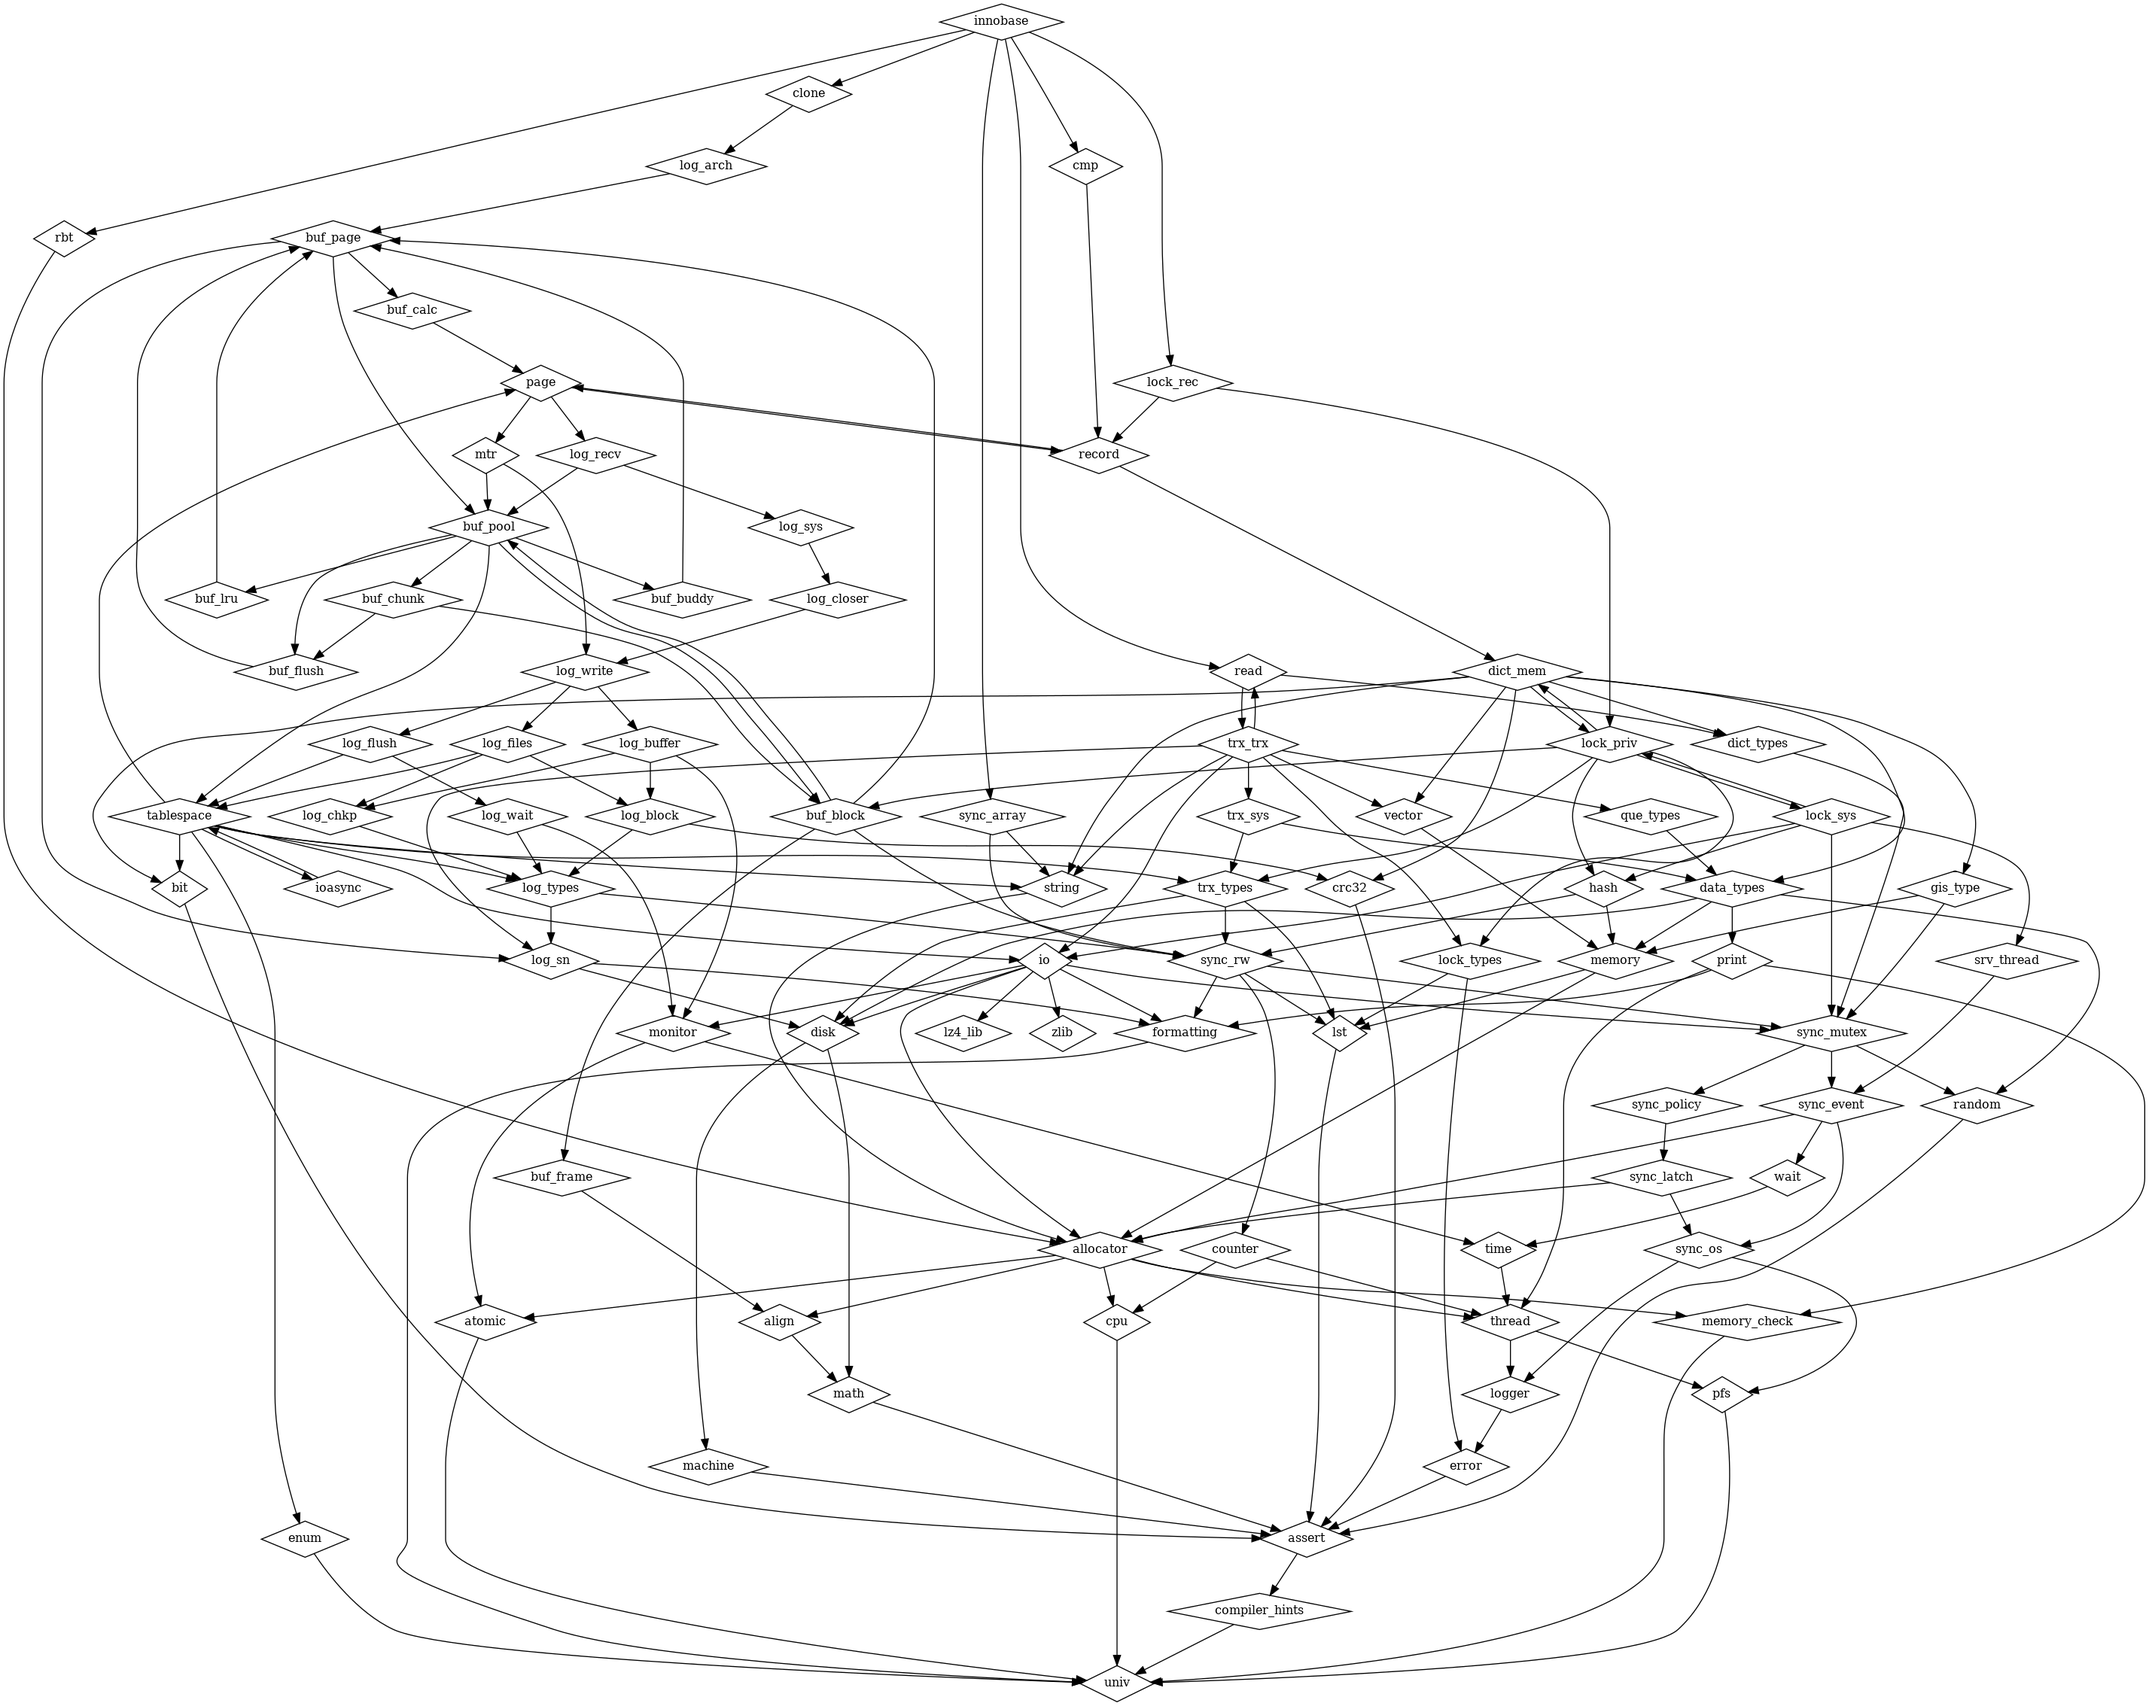
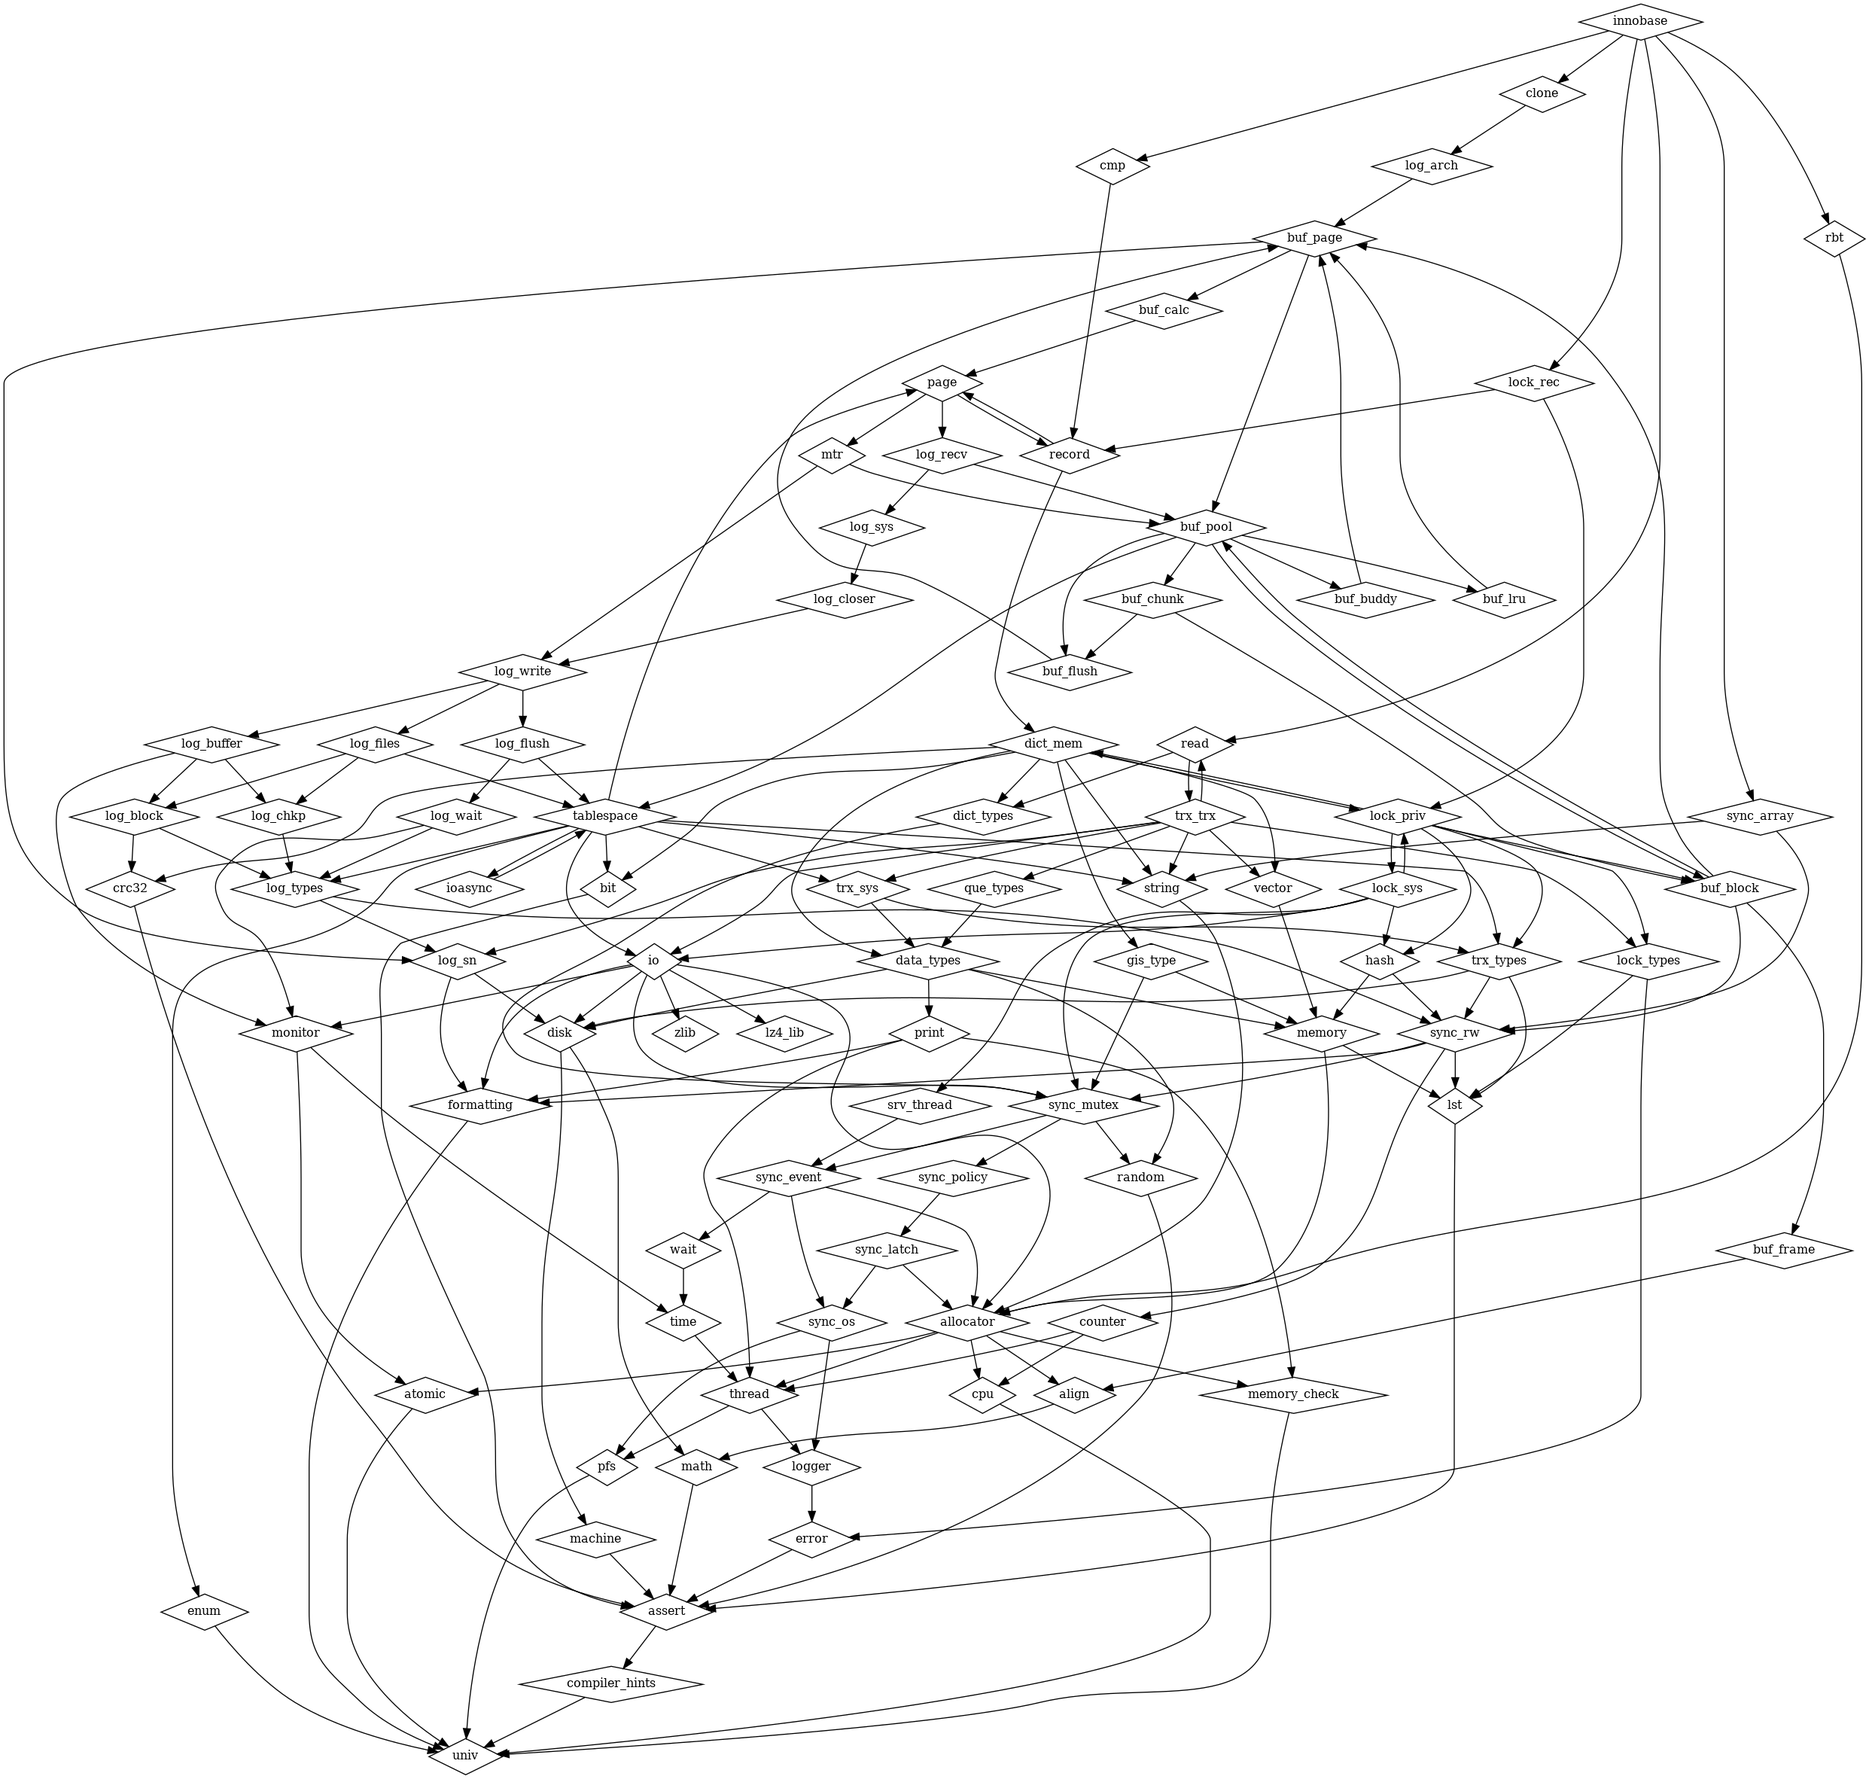
Extend trx_sys library

diff --git a/storage/innobase/libs/trx_sys/include/innodb/trx_sys/flags.h b/storage/innobase/libs/trx_sys/include/innodb/trx_sys/flags.h
@@ -130,3 +130,30 @@ FIL_PAGE_ARCH_LOG_NO_OR_SPACE_ID. */
 two) is assigned, the field TRX_SYS_TRX_ID_STORE on the transaction system
 page is updated */
 #define TRX_SYS_TRX_ID_WRITE_MARGIN ((trx_id_t)256)
+
+
+
+
+
+/* Rollback segment specification slot offsets */
+/*-------------------------------------------------------------*/
+#define TRX_SYS_RSEG_SPACE          \
+  0 /* space where the segment      \
+    header is placed; starting with \
+    MySQL/InnoDB 5.1.7, this is     \
+    UNIV_UNDEFINED if the slot is unused */
+#define TRX_SYS_RSEG_PAGE_NO           \
+  4 /*  page number where the segment  \
+    header is placed; this is FIL_NULL \
+    if the slot is unused */
+/*-------------------------------------------------------------*/
+/* Size of a rollback segment specification slot */
+#define TRX_SYS_RSEG_SLOT_SIZE 8
+
+
+
+/** Space id of the transaction system page (the system tablespace) */
+static const space_id_t TRX_SYS_SPACE = 0;
+
+/** Space id of system tablespace */
+const space_id_t SYSTEM_TABLE_SPACE = TRX_SYS_SPACE;

diff --git a/storage/innobase/libs/dict_mem/include/innodb/dict_mem/flags.h b/storage/innobase/libs/dict_mem/include/innodb/dict_mem/flags.h
@@ -326,11 +326,7 @@ a foreign key constraint is enforced, therefore RESTRICT just means no flag */
 /** SDI version. Written on Page 1 & 2 at FIL_PAGE_FILE_FLUSH_LSN offset. */
 const uint32_t SDI_VERSION = 1;
 
-/** Space id of the transaction system page (the system tablespace) */
-static const space_id_t TRX_SYS_SPACE = 0;
 
-/** Space id of system tablespace */
-const space_id_t SYSTEM_TABLE_SPACE = TRX_SYS_SPACE;
 
 /** Identifies generated InnoDB foreign key names */
 static char dict_ibfk[] = "_ibfk_";

diff --git a/storage/innobase/libs/tablespace/src/fsp_is_ibd_tablespace.cpp b/storage/innobase/libs/tablespace/src/fsp_is_ibd_tablespace.cpp
@@ -3,6 +3,7 @@
 #include <innodb/tablespace/fsp_is_undo_tablespace.h>
 #include <innodb/tablespace/fsp_is_system_temporary.h>
 #include <innodb/tablespace/consts.h>
+#include <innodb/trx_sys/flags.h>
 
 /** Determine if the space ID is an IBD tablespace, either file_per_table
 or a general shared tablespace, where user tables exist.

diff --git a/storage/innobase/libs/mtr/src/mlog_write_initial_log_record_fast.cpp b/storage/innobase/libs/mtr/src/mlog_write_initial_log_record_fast.cpp
@@ -4,7 +4,7 @@
 #include <innodb/dict_mem/flags.h>
 #include <innodb/mtr/mlog_write_initial_log_record_low.h>
 #include <innodb/mtr/mtr_t.h>
-
+#include <innodb/trx_sys/flags.h>
 
 /** Set to TRUE when the doublewrite buffer is being created */
 extern ibool buf_dblwr_being_created;

diff --git a/storage/innobase/libs/tablespace/src/fil_space_get_first_path.cpp b/storage/innobase/libs/tablespace/src/fil_space_get_first_path.cpp
@@ -2,6 +2,7 @@
 
 #include <innodb/tablespace/fil_system.h>
 #include <innodb/string/mem_strdup.h>
+#include <innodb/trx_sys/flags.h>
 
 /** Returns the path from the first fil_node_t found with this space ID.
 The caller is responsible for freeing the memory allocated here for the

diff --git a/storage/innobase/libs/tablespace/src/fil_write_flushed_lsn.cpp b/storage/innobase/libs/tablespace/src/fil_write_flushed_lsn.cpp
@@ -13,6 +13,7 @@
 #include <innodb/tablespace/fil_read.h>
 #include <innodb/tablespace/fil_write.h>
 #include <innodb/machine/data.h>
+#include <innodb/trx_sys/flags.h>
 
 /** Write the flushed LSN to the page header of the first page in the
 system tablespace.

diff --git a/storage/innobase/libs/tablespace/src/Tablespace_files.cpp b/storage/innobase/libs/tablespace/src/Tablespace_files.cpp
@@ -3,6 +3,7 @@
 #include <innodb/tablespace/consts.h>
 #include <innodb/tablespace/dict_sys_t_is_reserved.h>
 #include <innodb/logger/warn.h>
+#include <innodb/trx_sys/flags.h>
 
 /** Constructor
 @param[in]	dir		Directory that the files are under */

diff --git a/storage/innobase/libs/tablespace/src/fsp_is_system_tablespace.cpp b/storage/innobase/libs/tablespace/src/fsp_is_system_tablespace.cpp
@@ -1,6 +1,7 @@
 #include <innodb/tablespace/fsp_is_system_tablespace.h>
 
 #include <innodb/tablespace/consts.h>
+#include <innodb/trx_sys/flags.h>
 
 bool fsp_is_system_tablespace(space_id_t space_id) {
   return (space_id == TRX_SYS_SPACE);

diff --git a/storage/innobase/libs/dict_mem/include/innodb/dict_mem/dict_table_is_sdi.h b/storage/innobase/libs/dict_mem/include/innodb/dict_mem/dict_table_is_sdi.h
@@ -4,6 +4,7 @@
 
 #include <innodb/dict_mem/dict_sdi_get_table_id.h>
 #include <innodb/dict_mem/flags.h>
+#include <innodb/trx_sys/flags.h>
 
 /** Check if an table id belongs SDI table
 @param[in]	table_id	dict_table_t id

diff --git a/storage/innobase/libs/tablespace/src/fil_space_create.cpp b/storage/innobase/libs/tablespace/src/fil_space_create.cpp
@@ -1,6 +1,7 @@
 #include <innodb/tablespace/fil_space_create.h>
 
 #include <innodb/tablespace/fil_system.h>
+#include <innodb/trx_sys/flags.h>
 
 bool clone_mark_abort(bool force);
 void clone_mark_active();

diff --git a/storage/innobase/libs/tablespace/src/Fil_shard.cpp b/storage/innobase/libs/tablespace/src/Fil_shard.cpp
@@ -65,6 +65,7 @@
 #include <innodb/tablespace/fil_system.h>
 #include <innodb/enum/to_int.h>
 #include <innodb/tablespace/dict_sys_t_is_reserved.h>
+#include <innodb/trx_sys/flags.h>
 
 #include <atomic>
 

diff --git a/storage/innobase/libs/tablespace/src/SysTablespace.cpp b/storage/innobase/libs/tablespace/src/SysTablespace.cpp
@@ -14,6 +14,7 @@
 #include <innodb/tablespace/fil_type_t.h>
 #include <innodb/tablespace/fil_space_t.h>
 #include <innodb/dict_mem/flags.h>
+#include <innodb/trx_sys/flags.h>
 
 #include "sql/mysqld.h"
 
